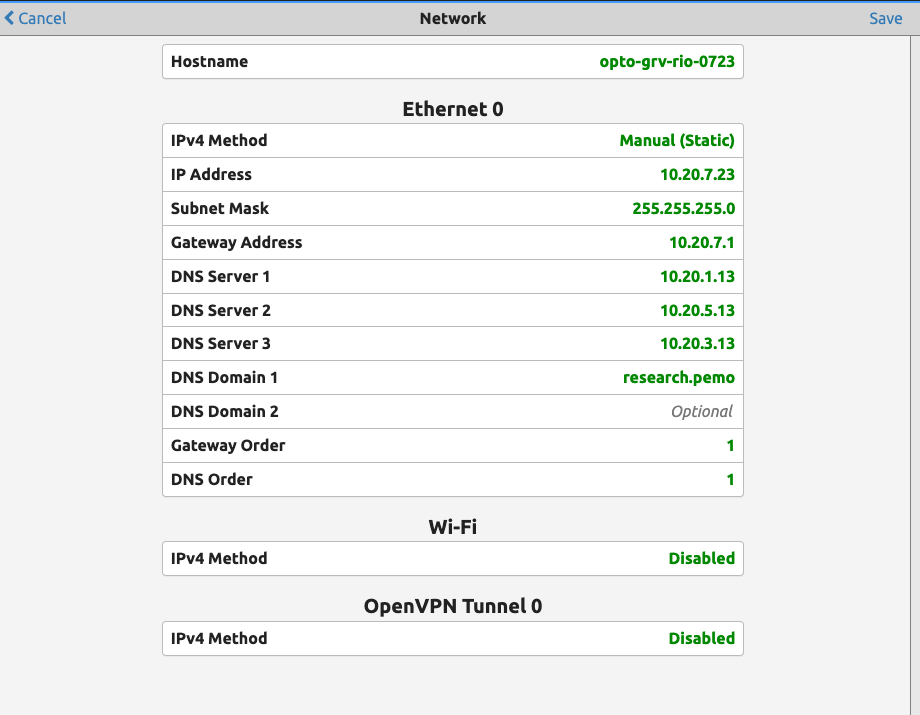
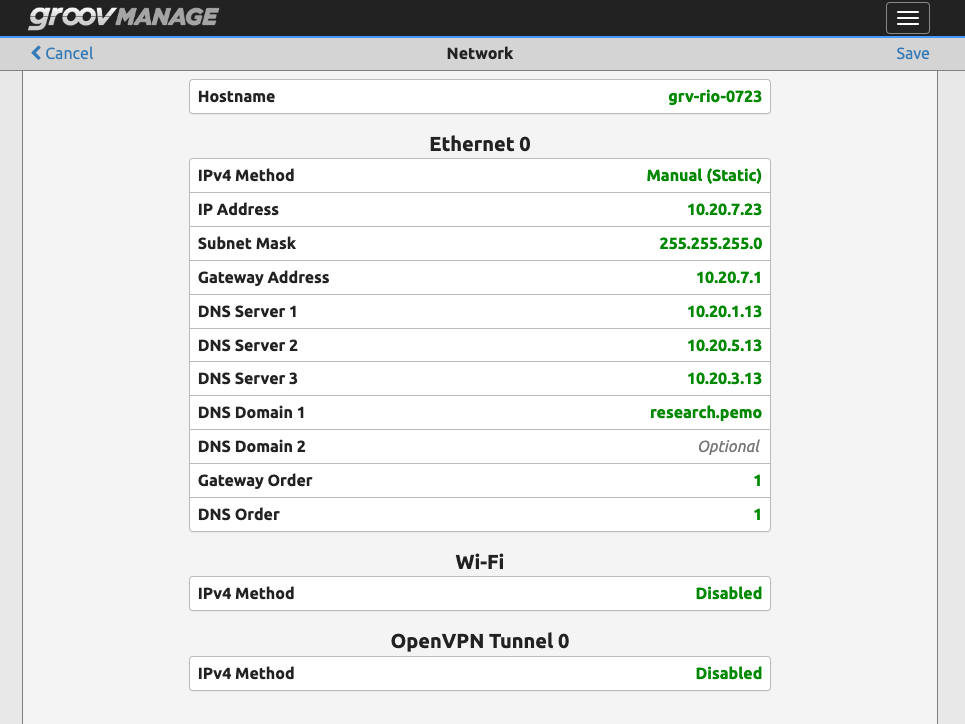
Initial build document.

diff --git a/Opto22/Codesys/groov_epic_rio_setup.md b/Opto22/Codesys/groov_epic_rio_setup.md
@@ -20,9 +20,9 @@ ___
    1. Path to configure network settings:  
          > Network/Configure
    2. Make the hostname in the following format:  
-         > opto-grv-<rio_OR_epic>-<IP_Octet3><IP_Octet4>  
-        EX1: If device is RIO with IP address 192.168.1.5 then `hostname = opto-grv-rio-0105`  
-        EX2: If device is EPIC with IP address 192.168.111.555 then `hostname = opto-grv-epic-111555` 
+         > grv-<rio_OR_epic>-<IP_Octet3><IP_Octet4>  
+        EX1: If device is RIO with IP address 192.168.1.5 then `hostname = grv-rio-0105`  
+        EX2: If device is EPIC with IP address 192.168.111.555 then `hostname = grv-epic-111555` 
          
    **NOTE:** Use two digit precision minimum for each IP Octet.  
    
@@ -79,7 +79,21 @@ ___
       ![](img/install_license_ticket_id.png)   
    8. Verify that the runtime was licensed by checking the **Device Log**, see image below for reference:  
       ![](img/codesys_runtime_licensed.png)     
-7. Back to [Main Content](#main-content)  
+7. Follow the sub steps below to download a working program to the device.
+   1. Compile the code to check for errors by using the **Generate Code** tool from the **Build Tab**. 
+   2. Select the **Communication Settings** section from the **Device View Page** and add a device to the **Gateway** 
+      by scanning the network with the **Scan Network** button or manually enter the IP address of the device and then
+      click the device icon above where the IP address was entered to scan for the device.  
+      See the image below for reference:    
+      ![](img/device_communication_settings.png)    
+   3. Select the **Ethernet Adapter** that was added from **Step 4** and set the network interface to the local host 
+      by using the **Browse** button.   
+      See the image below for reference:  
+      ![](img/ethernet_adpater_network_interface.png)     
+   4. Select **Login** from the **Online Tab** to login and download to the device.  
+      See the image below for reference:  
+      ![](img/download_program_to_device.png)      
+8. Back to [Main Content](#main-content)  
 ___
 ## CODESYS IGNITION OPU UA Client/Server Setup
 The Symbol Configuration object will be added to the CODESYS project to expose tags to the CODESYS OPC UA Server and
@@ -176,7 +190,7 @@ ___
 2. After purchasing the license, activate the license to enable access to the shell download license file,
    using the following link:  
    https://www.opto22.com/my-opto/manage-groov/activate-groov  
-3. After the activation a **Download License File** button will appear to enable the license file to be downloaded.   
+3. After the activation, a **Download License File** button will appear to enable the license file to be downloaded.   
    See the image below for reference:      
    ![](img/shell_download_license_File.png)  
 4. Goto the **GROOV Manage** web application and navigate to the **License** page and upload the license from **Step 3**
